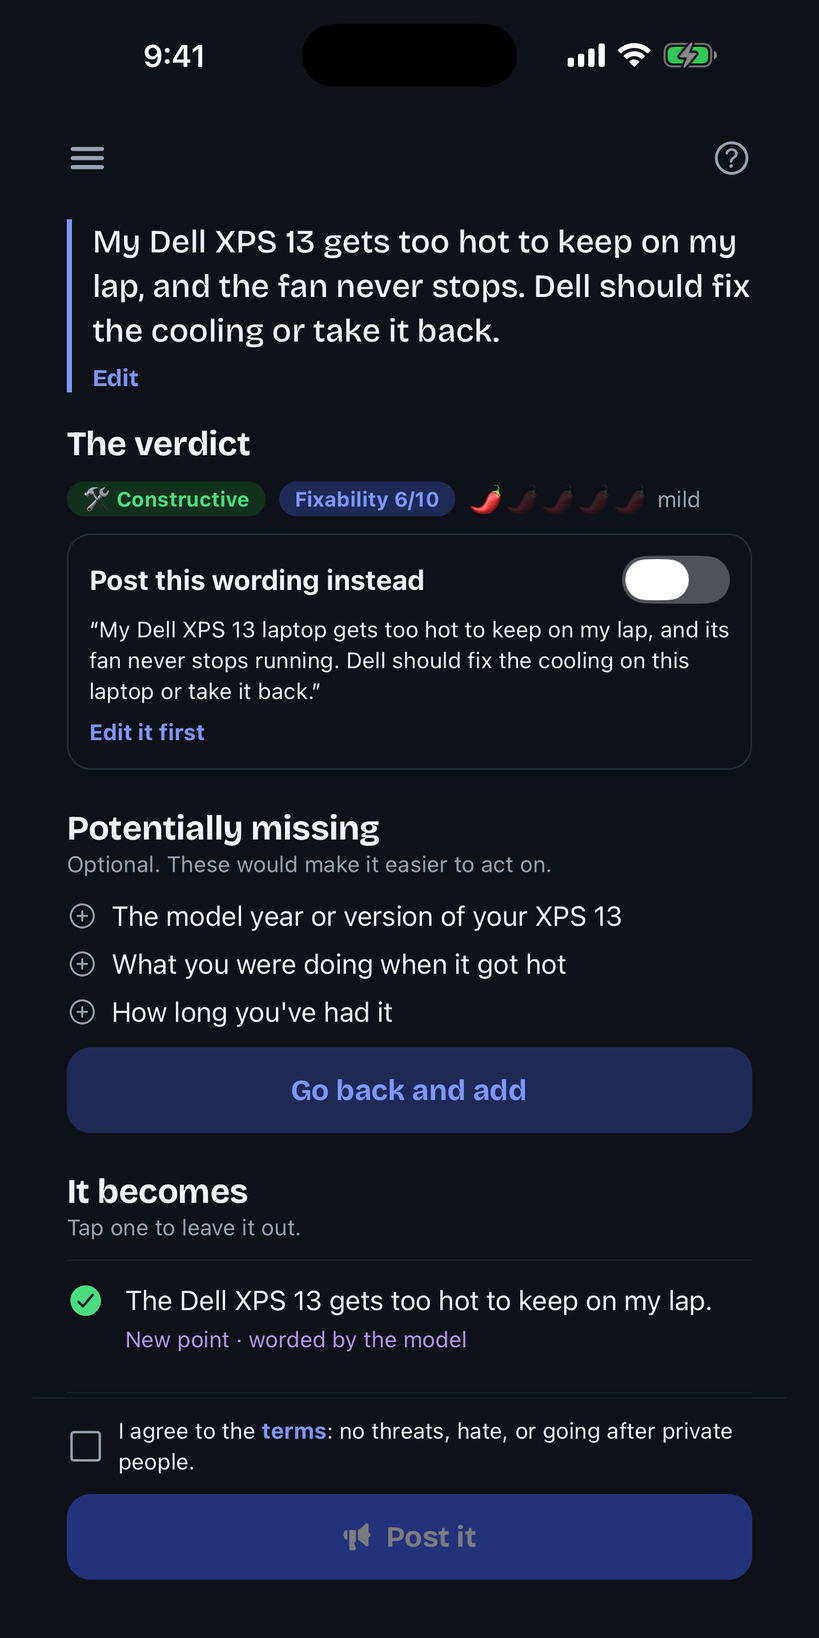
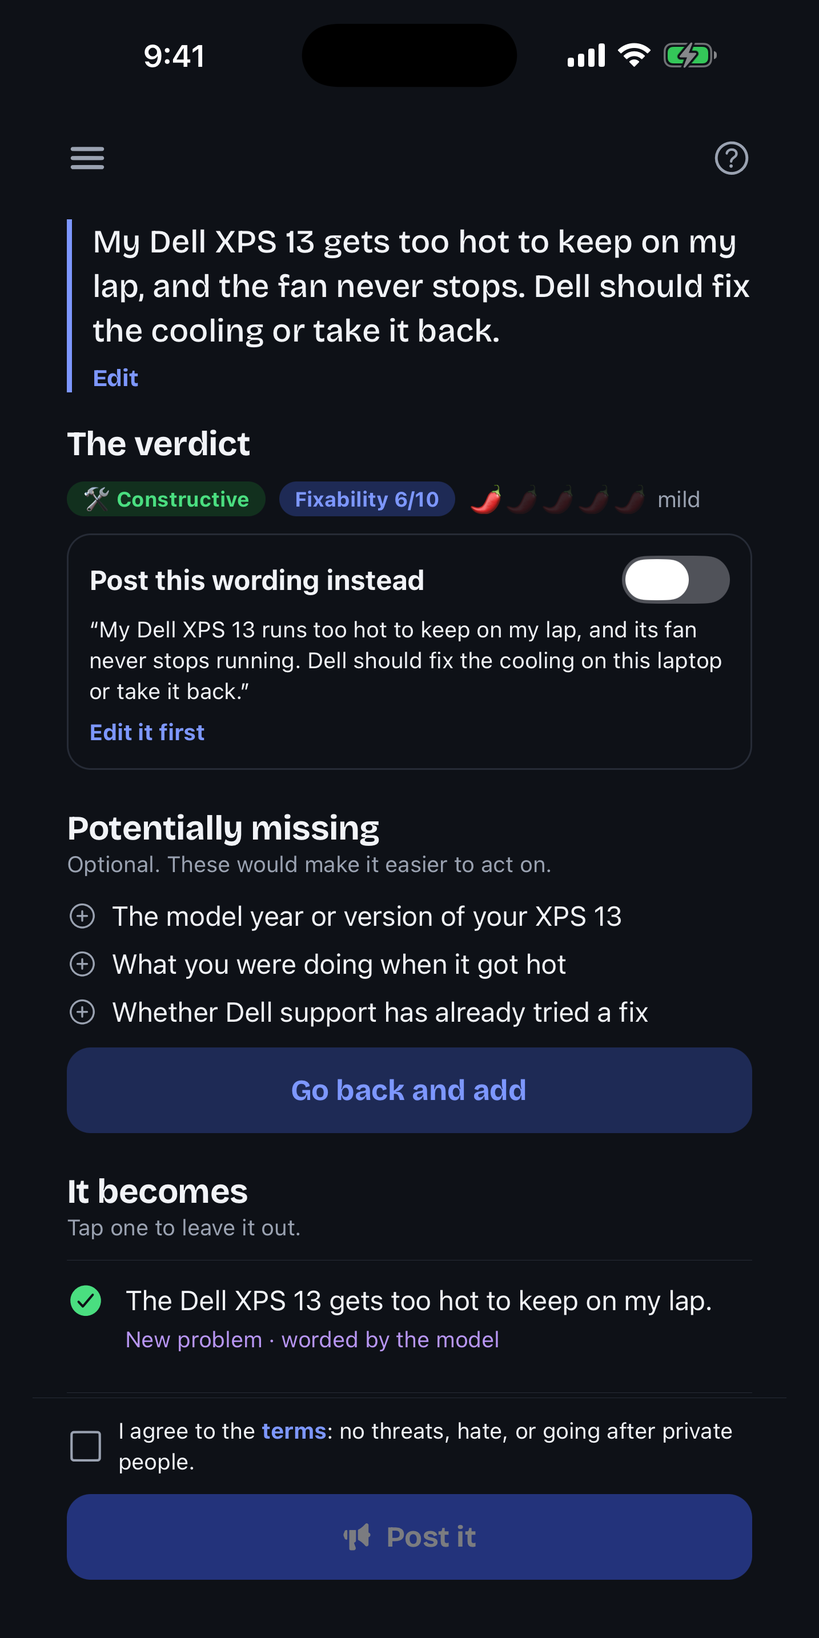
On screen a point is a problem; store screenshots without the placeholder complaint
- Every user-facing 'point' is now 'problem' (app, help, privacy, terms, server messages, store copy); code and data keep points
- Dropped the Complaints-list screenshot; retook review, problem page and company page

diff --git a/src/app/privacy.tsx b/src/app/privacy.tsx
@@ -20,8 +20,8 @@ export default function PrivacyScreen() {
             'An account identifier. The first time you open UCS we create an anonymous account so you can complain without signing up. It is not linked to your name, phone number, or device identifier. If you later sign in to an account you already have, what you did while signed out (complaints, support, votes) moves into that account and the anonymous one is deleted.',
             'Your email address, only if you sign in. You can sign in with an email and password (we keep a hash of the password) or with Google or Apple, which tell us your email address and nothing else; Apple lets you hide your real address. We use the email to sign you in, to let organizations reply to private complaints you send them, and to verify you if you respond for an organization. We never show it publicly.',
             'A display name we assign at random (for example "Steady Heron"). It is the only name shown next to anything you post. You can swap it for another random one, never one you type.',
-            'What you submit: the text of each complaint, any details you add to it later, any photos you attach, whether you sent it publicly or privately, how it was filed (the points, organizations and topics), and, for private complaints, the conversation that follows.',
-            'Your support, "Best rant" votes, fix confirmations and how you rated a proposed fix. We store which points you supported, which complaints you voted for and what you said about each fix so we can notify you and so you can withdraw; only the totals are public. A fix you propose for a point is public, under your display name.',
+            'What you submit: the text of each complaint, any details you add to it later, any photos you attach, whether you sent it publicly or privately, how it was filed (the problems, organizations and topics), and, for private complaints, the conversation that follows.',
+            'Your support, "Best rant" votes, fix confirmations and how you rated a proposed fix. We store which problems you supported, which complaints you voted for and what you said about each fix so we can notify you and so you can withdraw; only the totals are public. A fix you propose for a problem is public, under your display name.',
             'Notifications we send you inside the app, and, if you turn on phone notifications, your phone\'s push token (an address Apple or Google uses to deliver them, through Expo\'s push service).',
             'When you agreed to the terms of use.',
             'Reports you send: what you reported and why. Authors you chose to hide (their complaints are folded shut for you); that list is yours alone.',
@@ -34,9 +34,9 @@ export default function PrivacyScreen() {
         {
           heading: 'What is public',
           body: [
-            'Public complaints: their text, the photos that pass our checks, your display name, and the points they were filed under. Before a public complaint is posted we offer to remove personal details such as order numbers, phone numbers, and the names of private people; that is on by default.',
-            'Counts: how many people support each point, how many points each organization and topic has, and how organizations have responded.',
-            'Never public: your email, which points you supported, your fix confirmations, your reports, who you hid, and anything about private complaints except as described below.',
+            'Public complaints: their text, the photos that pass our checks, your display name, and the problems they were filed under. Before a public complaint is posted we offer to remove personal details such as order numbers, phone numbers, and the names of private people; that is on by default.',
+            'Counts: how many people support each problem, how many problems each organization and topic has, and how organizations have responded.',
+            'Never public: your email, which problems you supported, your fix confirmations, your reports, who you hid, and anything about private complaints except as described below.',
             'Some complaints come from public government records (the Consumer Financial Protection Bureau and NHTSA complaint databases). They are labelled with their source and link to it, and contain only what the agency already published.',
           ],
         },
@@ -53,7 +53,7 @@ export default function PrivacyScreen() {
         {
           heading: 'AI processing',
           body: [
-            'When you check a complaint before sending it, and again whenever you add a detail to one you posted, its text and photos are sent to Anthropic (Claude) to split it into points, match it to what others have said, suggest how to file it, spot personal data, list what might be missing (shown only to you, as suggestions), and rate its tone and how heated its language is (a spice level of one to five peppers; five, name-calling at people, is sent back with suggested rewrites; a rant also gets a score for how good a read it is, which sorts "Best rants"). Complaint and point text is also sent to Google (Vertex AI) to compute the search vectors that make matching work across languages. Photos are also checked by Google Cloud Vision (SafeSearch) for sexual or violent content before anyone else can see them. Both process it on our behalf under their commercial API terms, under which API data is not used to train their models by default.',
+            'When you check a complaint before sending it, and again whenever you add a detail to one you posted, its text and photos are sent to Anthropic (Claude) to split it into problems, match it to what others have said, suggest how to file it, spot personal data, list what might be missing (shown only to you, as suggestions), and rate its tone and how heated its language is (a spice level of one to five peppers; five, name-calling at people, is sent back with suggested rewrites; a rant also gets a score for how good a read it is, which sorts "Best rants"). Complaint and problem text is also sent to Google (Vertex AI) to compute the search vectors that make matching work across languages. Photos are also checked by Google Cloud Vision (SafeSearch) for sexual or violent content before anyone else can see them. Both process it on our behalf under their commercial API terms, under which API data is not used to train their models by default.',
             'Nothing is sent to the public record or to an organization until you have seen how it will be filed and confirmed it.',
           ],
         },
@@ -79,7 +79,7 @@ export default function PrivacyScreen() {
         {
           heading: 'Deleting your account',
           body: [
-            'You can delete any one of your public complaints from the complaint itself: its words and photos are removed and the support it gave is withdrawn. Delete your account at any time from Me > About > Delete account. When you do: your private complaints, their conversations and photos are deleted; your public complaints lose their text, photos and display name, while the points they fed stay on the record without your name because other people share them; every support, "Best rant" vote, fix confirmation and fix rating you gave is withdrawn and the counts drop; fixes you proposed are deleted; your organization access, requests, queued complaints, hidden-author list, notifications, phone tokens and sign-in are deleted; reports you sent stay without your account attached. An organization\'s private counts keep the anonymous number, which contains none of your words.',
+            'You can delete any one of your public complaints from the complaint itself: its words and photos are removed and the support it gave is withdrawn. Delete your account at any time from Me > About > Delete account. When you do: your private complaints, their conversations and photos are deleted; your public complaints lose their text, photos and display name, while the problems they fed stay on the record without your name because other people share them; every support, "Best rant" vote, fix confirmation and fix rating you gave is withdrawn and the counts drop; fixes you proposed are deleted; your organization access, requests, queued complaints, hidden-author list, notifications, phone tokens and sign-in are deleted; reports you sent stay without your account attached. An organization\'s private counts keep the anonymous number, which contains none of your words.',
           ],
         },
         {

diff --git a/src/app/help.tsx b/src/app/help.tsx
@@ -34,34 +34,34 @@ export default function HelpScreen() {
 
       <T variant="heading">The next step</T>
       <T>
-        &quot;Next&quot; sends your text to a model, which splits it into points: the specific things that are
-        wrong. Each point is matched to a similar complaint already on the record, or added as a new one. You see all of this
-        before anything is posted: which points will be added or joined, which companies and topics it is filed
+        &quot;Next&quot; sends your text to a model, which splits it into problems: the specific things that are
+        wrong. Each problem is matched to a similar complaint already on the record, or added as a new one. You see all of this
+        before anything is posted: which problems will be added or joined, which companies and topics it is filed
         under, and whether personal details were found.
       </T>
-      <T>You can edit the text, drop a point, untag a page, or go back. Nothing is public until you tap Post.</T>
+      <T>You can edit the text, drop a problem, untag a page, or go back. Nothing is public until you tap Post.</T>
       <T>
         If something would help that you left out, such as the make and model of a product, it is listed as
         potentially missing. It is a suggestion, never a requirement. After posting, the same list sits on your own
         complaint, where only you see it, and you can add any of them in a line. When you do, your complaint is read
-        again with the new detail: it is filed under what you named, and if the point is yours alone its wording is
+        again with the new detail: it is filed under what you named, and if the problem is yours alone its wording is
         updated to match.
       </T>
 
       <T variant="heading">After posting</T>
       <T>
-        Your complaint is public, in your own words. Each of its points shows how many people share it. Companies
-        can respond to a point; they can never edit or remove anything. When a company says a point is fixed, the
+        Your complaint is public, in your own words. Each of its problems shows how many people share it. Companies
+        can respond to a problem; they can never edit or remove anything. When a company says a problem is fixed, the
         people who raised it confirm before it counts.
       </T>
       <T>
-        You can delete a complaint of yours with the bin icon on it. When more people join a point you raised, you
+        You can delete a complaint of yours with the bin icon on it. When more people join a problem you raised, you
         are told.
       </T>
 
       <T variant="heading">Two ways to back a complaint</T>
       <T>
-        The up arrow on a point means you have that problem too. Best rant, on a complaint, means you loved reading
+        The up arrow on a problem means you have it too. Best rant, on a complaint, means you loved reading
         it. They are counted separately: one says how many people share a problem, the other picks the rants worth
         reading. Until enough rants have votes, Best rants also lists ones the model rated highly, each labeled as
         the model&apos;s pick.
@@ -69,9 +69,9 @@ export default function HelpScreen() {
 
       <T variant="heading">Fixes</T>
       <T>
-        Anyone can propose a fix on a point: the organization, or someone who found a way around the problem. The
+        Anyone can propose a fix for a problem: the organization, or someone who found a way around it. The
         people who have the problem are told, and each says whether it fixed it fully, partly, or not at all. A
-        point shows as Fixed only when the people who had it before the fix was proposed say it worked.
+        problem shows as Fixed only when the people who had it before the fix was proposed say it worked.
       </T>
 
       <T variant="heading">Photos</T>

diff --git a/src/app/company/index.tsx b/src/app/company/index.tsx
@@ -68,11 +68,11 @@ function Dashboard({ subjectId, orgs, onSwitch }: { subjectId: string; orgs: str
       {subject && <Stats subject={subject} />}
       <T variant="small">
         Public numbers above. Private: {count(privateTotal, 'complaint')} across{' '}
-        {count(privatePoints.items.length, 'point')}, visible only to your team.
+        {count(privatePoints.items.length, 'problem')}, visible only to your team.
       </T>
       <Tabs
         options={[
-          { key: 'points', label: 'Points' },
+          { key: 'points', label: 'Problems' },
           { key: 'inbox', label: unread ? `Private inbox · ${unread}` : 'Private inbox' },
           { key: 'settings', label: 'Settings' },
         ]}
@@ -234,7 +234,7 @@ function Summary({ points, subjectId, onView }: { points: Point[]; subjectId: st
 
   const exportCsv = async () => {
     const rows = [
-      ['Point', 'People', 'New this week', 'Complaints', 'Status', 'Seen', 'Responded', 'Proposed fixes', 'First raised', 'Filed under'],
+      ['Problem', 'People', 'New this week', 'Complaints', 'Status', 'Seen', 'Responded', 'Proposed fixes', 'First raised', 'Filed under'],
       ...points.map((p) => [
         p.text,
         p.supportCount,
@@ -286,7 +286,7 @@ function Summary({ points, subjectId, onView }: { points: Point[]; subjectId: st
       </Box>
       <T variant="small">
         You have responded to {s.rate}% of these points
-        {s.median ? `, typically ${s.median} after a point is first raised` : ''}. {s.total.toLocaleString()} people in
+        {s.median ? `, typically ${s.median} after a problem is first raised` : ''}. {s.total.toLocaleString()} people in
         all; {s.here.toLocaleString()} of them complained or added their support here, the rest come from public
         records.
       </T>
@@ -299,13 +299,13 @@ function Summary({ points, subjectId, onView }: { points: Point[]; subjectId: st
                 {name}
               </T>
               <T variant="small">
-                {t.people.toLocaleString()} people · {count(t.points, 'point')}
+                {t.people.toLocaleString()} people · {count(t.points, 'problem')}
               </T>
             </Row>
           ))}
         </>
       )}
-      <Button kind="quiet" icon="download-outline" label="Export these points as a table" onPress={exportCsv} />
+      <Button kind="quiet" icon="download-outline" label="Export these problems as a table" onPress={exportCsv} />
     </Card>
   );
 }

diff --git a/src/app/about.tsx b/src/app/about.tsx
@@ -4,8 +4,8 @@ const RULES = [
   'Organizations can respond. They can never remove, hide, reorder, or edit what people wrote.',
   'Nothing is sold that changes what is seen or how it ranks.',
   'Only illegal content, personal data, and complaints about private individuals are removed, and every removal is listed in the public removal log.',
-  'People who respond for an organization can’t support points about it.',
-  'A fix counts only when the people who raised the point confirm it.',
+  'People who respond for an organization can’t support problems about it.',
+  'A fix counts only when the people who raised the problem confirm it.',
 ];
 
 export default function AboutScreen() {
@@ -21,17 +21,17 @@ export default function AboutScreen() {
         Your complaint is counted, merged with everyone who shares it, and visible to the people who can fix it. We
         can&apos;t promise they&apos;ll answer. Everyone can see whether they did.
       </T>
-      <T variant="heading">Points, not posts</T>
+      <T variant="heading">Problems, not posts</T>
       <T>
-        A model splits each complaint into points, the specific things that are wrong, and matches them to points
-        already on the record, so a hundred people saying the same thing become one point with a hundred
-        supporters. Wherever the model added a new point, it is marked. Every complaint stays visible in its
+        A model splits each complaint into problems, the specific things that are wrong, and matches them to problems
+        already on the record, so a hundred people saying the same thing become one problem with a hundred
+        supporters. Wherever the model added a new problem, it is marked. Every complaint stays visible in its
         author&apos;s own words.
       </T>
       <T variant="heading">Organizations</T>
       <T>
         Anyone with a verified email at an organization&apos;s domain can respond for it. Each organization&apos;s page
-        shows how many points it has, and what share it has seen, answered, and fixed.
+        shows how many problems it has, and what share it has seen, answered, and fixed.
       </T>
       <T variant="heading">The rules</T>
       {RULES.map((r) => (

diff --git a/functions/src/points.ts b/functions/src/points.ts
@@ -59,11 +59,11 @@ export const supportPoint = onCall(CALLABLE, async (req) => {
   await db.runTransaction(async (tx) => {
     joined = null;
     const point = await tx.get(ref);
-    if (!point.exists || point.get('removed')) throw new HttpsError('not-found', 'That point is gone.');
+    if (!point.exists || point.get('removed')) throw new HttpsError('not-found', 'That problem is gone.');
     if ((point.get('subjectIds') as string[]).some((s) => responderFor.includes(s))) {
       throw new HttpsError(
         'permission-denied',
-        'You respond for this organization, so you can\'t support points about it.',
+        'You respond for this organization, so you can\'t support problems about it.',
       );
     }
     const mine = await tx.get(ref.collection('supports').doc(uid));
@@ -137,7 +137,7 @@ export const voteFix = onCall(CALLABLE, async (req) => {
     : 0;
   const outcome = await db.runTransaction(async (tx) => {
     const point = await tx.get(ref);
-    if (!point.exists) throw new HttpsError('not-found', 'That point is gone.');
+    if (!point.exists) throw new HttpsError('not-found', 'That problem is gone.');
     const entry = point.get(`orgStatus.${orgId}`) as OrgStatus | undefined;
     if (!entry || !FIX_STATES.includes(entry.status) || !entry.fixClaimedAt) {
       throw new HttpsError('failed-precondition', 'Nobody has said this is fixed yet.');
@@ -150,7 +150,7 @@ export const voteFix = onCall(CALLABLE, async (req) => {
         'permission-denied',
         supporter.exists
           ? 'Only people who supported this before the fix was claimed can confirm it.'
-          : 'Only supporters of this point can confirm.',
+          : 'Only people who have this problem can confirm.',
       );
     }
     const voteRef = ref.collection('fixVotes').doc(`${orgId}_${uid}`);

diff --git a/src/app/point/[id].tsx b/src/app/point/[id].tsx
@@ -88,7 +88,7 @@ export default function PointScreen() {
     }
   }, [point, myOrgs]);
 
-  if (!point) return <Screen><Empty loading={loading} text="This point isn't on the record (or it was removed)." /></Screen>;
+  if (!point) return <Screen><Empty loading={loading} text="This problem isn't on the record (or it was removed)." /></Screen>;
 
   const seenCount = Object.keys(point.seenBy ?? {}).length;
   // Only present for organizations that chose to publish their private counts.
@@ -104,7 +104,7 @@ export default function PointScreen() {
           headerRight: () => (
             <Pressable
               onPress={() => shareLink(`/point/${point.id}`)}
-              accessibilityLabel="Share this point"
+              accessibilityLabel="Share this problem"
               hitSlop={10}>
               <Ionicons name="share-outline" size={22} color={theme.primary} />
             </Pressable>
@@ -224,7 +224,7 @@ export default function PointScreen() {
           })
         }
       />
-      <ReportButton target={{ kind: 'point', id: point.id }} label="Report this point" />
+      <ReportButton target={{ kind: 'point', id: point.id }} label="Report this problem" />
     </Screen>
   );
 }

diff --git a/functions/src/solutions.ts b/functions/src/solutions.ts
@@ -36,7 +36,7 @@ export const proposeFix = onCall(CALLABLE, async (req) => {
   await rateLimit(req, 'solution');
   const pointRef = db.doc(`points/${pointId}`);
   const point = await pointRef.get();
-  if (!point.exists || point.get('removed')) throw new HttpsError('not-found', 'That point is gone.');
+  if (!point.exists || point.get('removed')) throw new HttpsError('not-found', 'That problem is gone.');
   const authorId = authorIdOf(uid);
   const ref = pointRef.collection('solutions').doc(authorId);
   const existing = await ref.get();
@@ -87,7 +87,7 @@ export const rateFix = onCall(CALLABLE, async (req) => {
     ]);
     if (!fix.exists || fix.get('removed')) throw new HttpsError('not-found', 'That fix is gone.');
     if (!support.exists) {
-      throw new HttpsError('permission-denied', 'Support the point first: the people who have the problem say if a fix worked.');
+      throw new HttpsError('permission-denied', 'Tap the arrow on the problem first: the people who have it say if a fix worked.');
     }
     const before = mine.exists ? (mine.get('rating') as Rating) : null;
     if (before === rating) return;

diff --git a/src/components/submission-card.tsx b/src/components/submission-card.tsx
@@ -261,7 +261,7 @@ export function SubmissionCard({ s, addedPoint }: { s: Submission; addedPoint?: 
         {own && <Chip label="Yours" color={theme.primary} bg={theme.primarySoft} />}
         {source && <Chip label={`Public record · ${source.shortName}`} color={theme.textSecondary} bg={theme.background} />}
         {s.tone === 'rant' && <Chip label="🔥 Rant" color={theme.rant} bg={theme.rantSoft} />}
-        {addedPoint && <Chip label="Model added this point from it" color={theme.new} bg={theme.newSoft} />}
+        {addedPoint && <Chip label="Model added this problem from it" color={theme.new} bg={theme.newSoft} />}
         {s.rewritten && <Chip label="Clearer version" color={theme.textSecondary} bg={theme.background} />}
       </Row>
       <T>{translated && !original ? s.englishText : s.text}</T>

diff --git a/src/app/terms.tsx b/src/app/terms.tsx
@@ -39,7 +39,7 @@ export default function TermsScreen() {
         {
           heading: 'AI',
           body: [
-            'A model splits complaints into points, matches them with what others have said, suggests how to file them, and offers clearer wording. It can be wrong. You can leave out points, change how a complaint is filed, and keep your own words. Every place the model added something to the record is labeled.',
+            'A model splits complaints into problems, matches them with what others have said, suggests how to file them, and offers clearer wording. It can be wrong. You can leave out problems, change how a complaint is filed, and keep your own words. Every place the model added something to the record is labeled.',
           ],
         },
         {

diff --git a/functions/src/company.ts b/functions/src/company.ts
@@ -229,9 +229,9 @@ async function responderFor(uid: string, pointId: string, subjectId: string) {
     db.doc(`points/${pointId}`).get(),
     db.doc(`subjects/${subjectId}/responders/${uid}`).get(),
   ]);
-  if (!point.exists) throw new HttpsError('not-found', 'That point is gone.');
+  if (!point.exists) throw new HttpsError('not-found', 'That problem is gone.');
   if (!responder.exists || !(point.get('subjectIds') as string[]).includes(subjectId)) {
-    throw new HttpsError('permission-denied', 'You don\'t respond for an organization on this point.');
+    throw new HttpsError('permission-denied', 'You don\'t respond for an organization on this problem.');
   }
   return { point, responder };
 }

diff --git a/src/app/delete-account.tsx b/src/app/delete-account.tsx
@@ -50,7 +50,7 @@ export default function DeleteAccountScreen() {
     <Screen>
       <T variant="heading">What gets deleted</T>
       <T>Your private complaints and their conversations.</T>
-      <T>The words, photos and name on your public complaints. The points they raised stay, without your name, because other people share them.</T>
+      <T>The words, photos and name on your public complaints. The problems they raised stay, without your name, because other people share them.</T>
       <T>Your support, your votes, and any fixes you proposed.</T>
       <T>Your sign-in, if you have one.</T>
       <Button label="Delete my account" kind="secondary" onPress={remove} busy={busy} />

diff --git a/functions/src/private.ts b/functions/src/private.ts
@@ -89,7 +89,7 @@ export async function submitPrivate(
     ? req.data.keepPoints.filter((i: unknown) => Number.isInteger(i))
     : result.points.map((_, i) => i);
   const keptIdx = result.points.map((_, i) => i).filter((i) => keep.includes(i));
-  if (keptIdx.length === 0) throw new HttpsError('invalid-argument', 'Keep at least one point.');
+  if (keptIdx.length === 0) throw new HttpsError('invalid-argument', 'Keep at least one problem.');
   const useRewrite = req.data?.useRewrite === true && !!result.suggestedRewrite;
   const finalText = useRewrite ? result.suggestedRewrite! : (result.pii.sensitiveRemovedText ?? draft.text);
 
